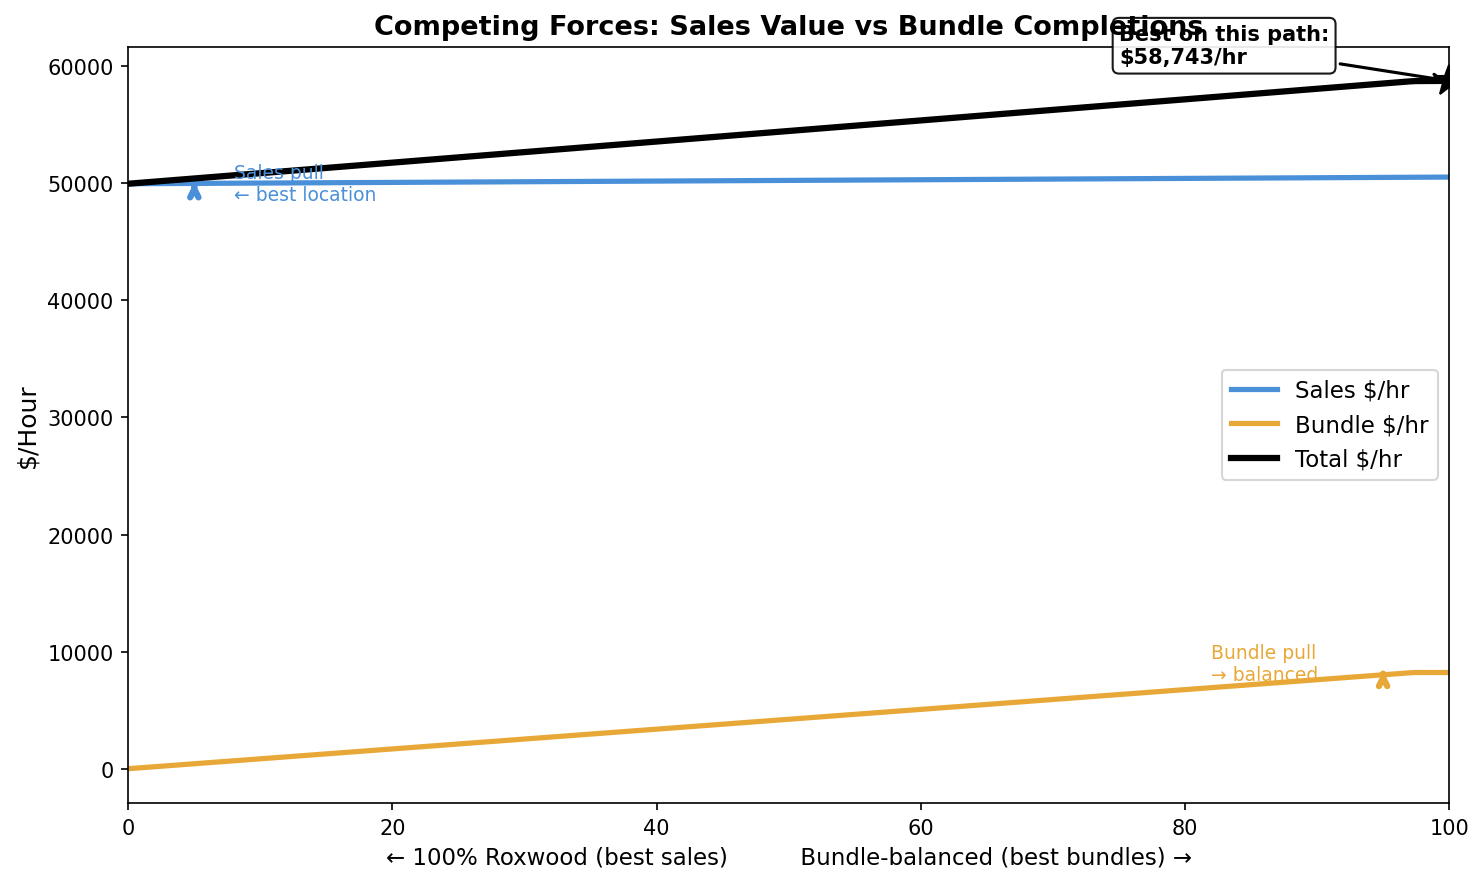
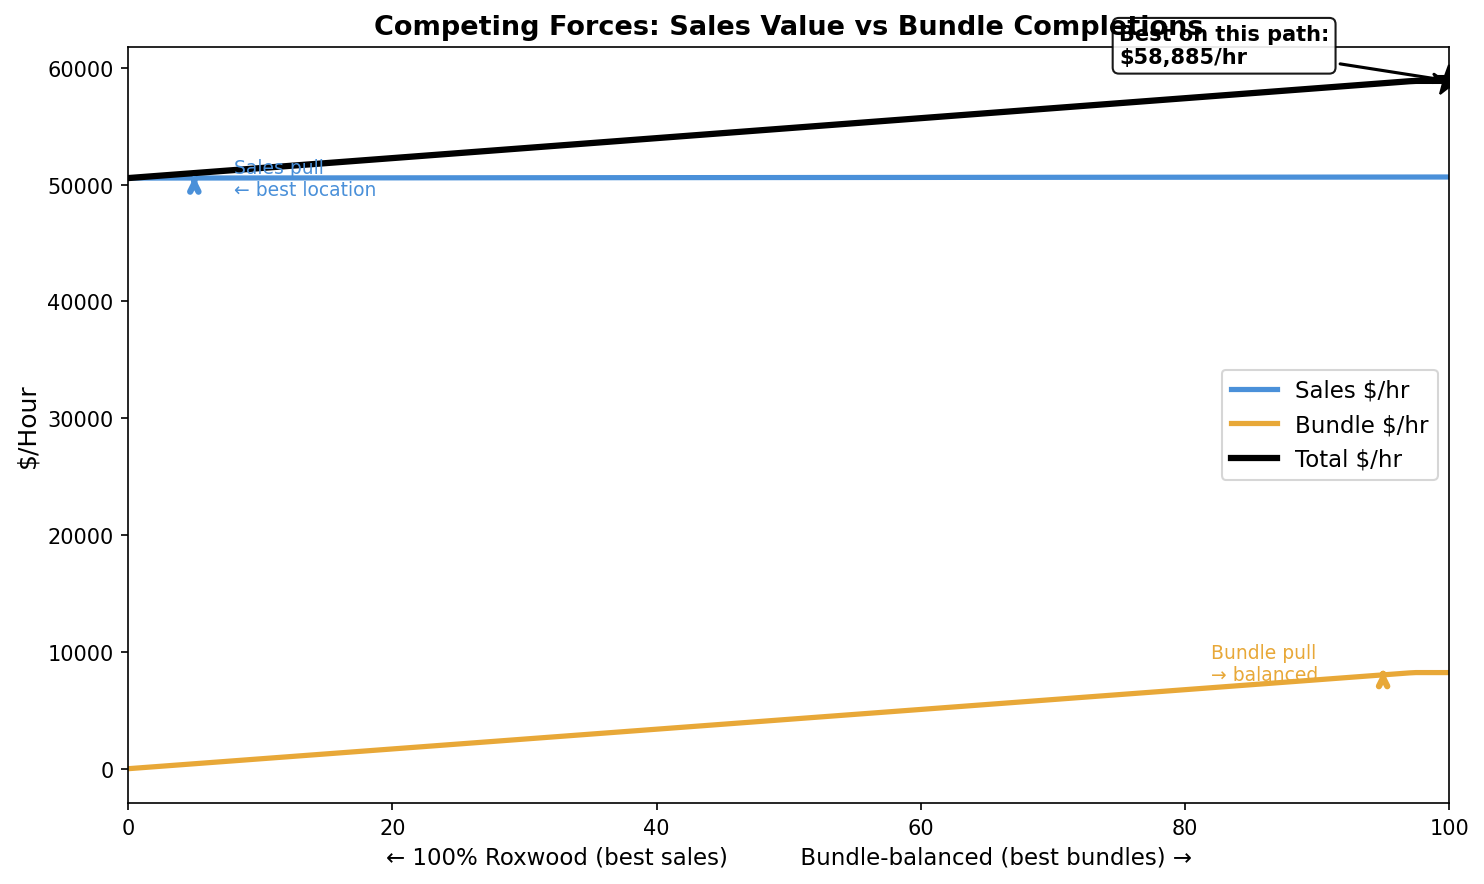
update

diff --git a/sales/constants.py b/sales/constants.py
@@ -150,7 +150,7 @@ TIER_PRICES = {
 
 # Manual notes for special fish sightings (weather, etc.)
 SPECIAL_FISH_NOTES: dict[str, str] = {
-    "3 Eyed Fish": "heavy storm",
+    "3 Eyed Fish": "heavy storm in alamo, nothing special in roxwood tho",
 }
 
 # Time per fish (seconds) – bite wait varies by location

diff --git a/sales/comparison.md b/sales/comparison.md
@@ -10,7 +10,7 @@ Bite wait by location: Alamo Sea 90s, Dam 90s, Roxwood 100s. Reel-in by location
 |-----------|------------:|----------------:|-------------:|-------------------------------------------------------|-----------------:|-------------------:|---------------------:|---------------:|
 | Alamo Sea |         420 |          $1,472 |       $1,404 | Gold Multizone #1, Alamo Starter, Low Level Multizone |             $655 |             $2,127 |           **$2,059** |        $70,606 |
 | Dam       |         335 |          $1,664 |       $1,664 | Gold Multizone #1, Low Level Multizone                |             $369 |             $2,033 |           **$2,033** |        $63,644 |
-| Roxwood   |         172 |          $1,804 |       $1,871 | Gold Multizone #1, Low Level Multizone                |             $205 |             $2,009 |           **$2,077** |        $57,504 |
+| Roxwood   |         256 |          $1,826 |       $1,849 | Gold Multizone #1, Low Level Multizone                |             $257 |             $2,083 |           **$2,107** |        $58,335 |
 
 ## Optimal Allocation
 
@@ -18,13 +18,13 @@ Optimal time split across locations to maximize total $/hour (considering both s
 
 | Location     | Time % (obs) | $/Fish (obs) | $/Hour (obs) | Time % (model) | $/Fish (model) | $/Hour (model) |
 |--------------|-------------:|-------------:|-------------:|---------------:|---------------:|---------------:|
-| Alamo Sea    |          63% |       $1,472 |      $57,829 |            61% |         $1,404 |        $55,497 |
-| Dam          |          14% |       $1,664 |      $52,096 |            15% |         $1,664 |        $52,096 |
-| Roxwood      |          23% |       $1,804 |      $49,959 |            24% |         $1,871 |        $51,816 |
-| **Combined** |         100% |              |  **$59,119** |           100% |                |    **$58,133** |
+| Alamo Sea    |          58% |       $1,472 |      $57,829 |            58% |         $1,404 |        $55,497 |
+| Dam          |          20% |       $1,664 |      $52,096 |            20% |         $1,664 |        $52,096 |
+| Roxwood      |          22% |       $1,826 |      $50,566 |            22% |         $1,849 |        $51,213 |
+| **Combined** |         100% |              |  **$59,773** |           100% |                |    **$58,564** |
 
-**Observed:** splitting yields **$59,119**/hour vs **$57,829**/hour best solo (+$1,291/hour, +2.2%).
-**Model:** splitting yields **$58,133**/hour vs **$55,497**/hour best solo (+$2,636/hour, +4.8%).
+**Observed:** splitting yields **$59,773**/hour vs **$57,829**/hour best solo (+$1,945/hour, +3.4%).
+**Model:** splitting yields **$58,564**/hour vs **$55,497**/hour best solo (+$3,067/hour, +5.5%).
 
 ## Bundle Details
 
@@ -38,8 +38,8 @@ Optimal time split across locations to maximize total $/hour (considering both s
 
 | Bundle              | Fish                             |   Bonus | Avg Fish to Complete | Avg Time | Bonus/Fish | Catch Rates                                                                                                 |
 |---------------------|----------------------------------|--------:|---------------------:|---------:|-----------:|-------------------------------------------------------------------------------------------------------------|
-| Gold Multizone #1   | Bluefin Tuna, Musky, Dolphinfish | $12,750 |                  203 |  376 min |        $63 | Bluefin Tuna @ Alamo Sea: 3/420 (0.7%) \| Musky @ Dam: 17/335 (5.1%) \| Dolphinfish @ Roxwood: 4/172 (2.3%) |
-| Low Level Multizone | Scollop, Carp, Grenadier         | $11,000 |                   67 |  136 min |       $164 | Scollop @ Alamo Sea: 47/420 (11.2%) \| Carp @ Dam: 14/335 (4.2%) \| Grenadier @ Roxwood: 5/172 (2.9%)       |
+| Gold Multizone #1   | Bluefin Tuna, Musky, Dolphinfish | $12,750 |                  202 |  375 min |        $63 | Bluefin Tuna @ Alamo Sea: 3/420 (0.7%) \| Musky @ Dam: 17/335 (5.1%) \| Dolphinfish @ Roxwood: 6/256 (2.3%) |
+| Low Level Multizone | Scollop, Carp, Grenadier         | $11,000 |                   56 |  112 min |       $196 | Scollop @ Alamo Sea: 47/420 (11.2%) \| Carp @ Dam: 14/335 (4.2%) \| Grenadier @ Roxwood: 11/256 (4.3%)      |
 
 ## Drop Rate Analysis
 
@@ -49,10 +49,10 @@ Tier drop rates are consistent across locations, suggesting a fixed game mechani
 
 | Tier        | Alamo Sea |   Dam | Roxwood | Average |
 |-------------|----------:|------:|--------:|--------:|
-| ★★★★ purple |      0.2% |  0.0% |    0.0% |    0.1% |
-| ★★★         |      6.4% | 10.1% |    8.7% |    8.4% |
-| ★★          |     26.4% | 28.1% |   32.6% |   29.0% |
-| ★           |     65.5% | 61.8% |   58.7% |   62.0% |
+| ★★★★ purple |      0.2% |  0.0% |    0.4% |    0.2% |
+| ★★★         |      6.4% | 10.1% |    9.0% |    8.5% |
+| ★★          |     26.4% | 28.1% |   30.9% |   28.4% |
+| ★           |     65.5% | 61.8% |   59.4% |   62.2% |
 
 ### Within-Tier Weights
 
@@ -140,42 +140,42 @@ Model fit (25%/20%/20%/15%/10%/10%): χ² = 1.19, p = 0.946 — excellent
 Weight fit: χ² = 2.80, df = 7, p = 0.903 — excellent
 Model fit (20%/15%/15%/15%/10%/10%/10%/5%): χ² = 4.88, p = 0.674 — excellent
 
-#### Roxwood — ★★★ (3 fish, 15 observed)
+#### Roxwood — ★★★ (3 fish, 23 observed)
 
 | Fish          | Count | Observed % | Weight | Weight % | Model % | Model % (norm) | Residual |
 |---------------|------:|-----------:|-------:|---------:|--------:|---------------:|---------:|
-| King Mackerel |     6 |      40.0% |      1 |    33.3% |     55% |          55.0% |     -2.2 |
-| Grenadier     |     5 |      33.3% |      1 |    33.3% |     30% |          30.0% |     +0.5 |
-| Dolphinfish   |     4 |      26.7% |      1 |    33.3% |     15% |          15.0% |     +1.8 |
+| Grenadier     |    11 |      47.8% |      9 |    47.4% |     55% |          55.0% |     -1.7 |
+| King Mackerel |     6 |      26.1% |      5 |    26.3% |     30% |          30.0% |     -0.9 |
+| Dolphinfish   |     6 |      26.1% |      5 |    26.3% |     15% |          15.0% |     +2.5 |
 
-Weight fit: χ² = 0.40, df = 2, p = 0.819 — excellent
-Model fit (55%/30%/15%): χ² = 2.03, p = 0.362 — good
+Weight fit: χ² = 0.00, df = 2, p = 0.999 — excellent
+Model fit (55%/30%/15%): χ² = 2.22, p = 0.330 — good
 
-#### Roxwood — ★★ (6 fish, 56 observed)
+#### Roxwood — ★★ (6 fish, 79 observed)
 
 | Fish         | Count | Observed % | Weight | Weight % | Model % | Model % (norm) | Residual |
 |--------------|------:|-----------:|-------:|---------:|--------:|---------------:|---------:|
-| Snapper      |    15 |      26.8% |      9 |    23.1% |     25% |          25.0% |     +1.0 |
-| Silver Perch |    12 |      21.4% |      9 |    23.1% |     20% |          20.0% |     +0.8 |
-| Amberjack    |    12 |      21.4% |      9 |    23.1% |     20% |          20.0% |     +0.8 |
-| Gummy Shark  |     7 |      12.5% |      4 |    10.3% |     15% |          15.0% |     -1.4 |
-| Brown Trout  |     7 |      12.5% |      4 |    10.3% |     10% |          10.0% |     +1.4 |
-| Red Snapper  |     3 |       5.4% |      4 |    10.3% |     10% |          10.0% |     -2.6 |
+| Snapper      |    19 |      24.1% |      7 |    21.2% |     25% |          25.0% |     -0.8 |
+| Silver Perch |    16 |      20.3% |      7 |    21.2% |     20% |          20.0% |     +0.2 |
+| Amberjack    |    16 |      20.3% |      7 |    21.2% |     20% |          20.0% |     +0.2 |
+| Gummy Shark  |    12 |      15.2% |      4 |    12.1% |     15% |          15.0% |     +0.2 |
+| Brown Trout  |    10 |      12.7% |      4 |    12.1% |     10% |          10.0% |     +2.1 |
+| Red Snapper  |     6 |       7.6% |      4 |    12.1% |     10% |          10.0% |     -1.9 |
 
-Weight fit: χ² = 2.33, df = 5, p = 0.802 — excellent
-Model fit (25%/20%/20%/15%/10%/10%): χ² = 1.98, p = 0.852 — excellent
+Weight fit: χ² = 2.34, df = 5, p = 0.801 — excellent
+Model fit (25%/20%/20%/15%/10%/10%): χ² = 1.05, p = 0.958 — excellent
 
-#### Roxwood — ★ (7 fish, 101 observed)
+#### Roxwood — ★ (7 fish, 152 observed)
 
 | Fish               | Count | Observed % | Weight | Weight % | Model % | Model % (norm) | Residual |
 |--------------------|------:|-----------:|-------:|---------:|--------:|---------------:|---------:|
-| Grouper            |    35 |      34.7% |      9 |    33.3% |     20% |          21.1% |    +13.7 |
-| Dungeness Crab     |    17 |      16.8% |      4 |    14.8% |     15% |          15.8% |     +1.1 |
-| Sandy Sprat        |    15 |      14.9% |      4 |    14.8% |     15% |          15.8% |     -0.9 |
-| Ocean Perch        |    13 |      12.9% |      4 |    14.8% |     15% |          15.8% |     -2.9 |
-| Australian Herring |     9 |       8.9% |      2 |     7.4% |     10% |          10.5% |     -1.6 |
-| Sand Whiting       |     6 |       5.9% |      2 |     7.4% |     10% |          10.5% |     -4.6 |
-| Ocean Jacket       |     6 |       5.9% |      2 |     7.4% |     10% |          10.5% |     -4.6 |
+| Grouper            |    45 |      29.6% |      6 |    30.0% |     20% |          21.1% |    +13.0 |
+| Dungeness Crab     |    27 |      17.8% |      3 |    15.0% |     15% |          15.8% |     +3.0 |
+| Ocean Perch        |    25 |      16.4% |      3 |    15.0% |     15% |          15.8% |     +1.0 |
+| Sandy Sprat        |    23 |      15.1% |      3 |    15.0% |     15% |          15.8% |     -1.0 |
+| Australian Herring |    17 |      11.2% |      3 |    15.0% |     10% |          10.5% |     +1.0 |
+| Ocean Jacket       |     9 |       5.9% |      1 |     5.0% |     10% |          10.5% |     -7.0 |
+| Sand Whiting       |     6 |       3.9% |      1 |     5.0% |     10% |          10.5% |    -10.0 |
 
-Weight fit: χ² = 1.48, df = 6, p = 0.961 — excellent
-Model fit (20%/15%/15%/15%/10%/10%/10%/5%): χ² = 13.83, p = 0.032 — poor
+Weight fit: χ² = 3.07, df = 6, p = 0.801 — excellent
+Model fit (20%/15%/15%/15%/10%/10%/10%/5%): χ² = 15.11, p = 0.019 — poor

diff --git a/sales/roxwood.md b/sales/roxwood.md
@@ -2,22 +2,24 @@
 
 1 batches sold
 
-| Fish               |   Count |        % | Stars | Bundles             |
-|--------------------|--------:|---------:|-------|---------------------|
-| King Mackerel      |       6 |     3.5% | ★★★   |                     |
-| Grenadier          |       5 |     2.9% | ★★★   | Low Level Multizone |
-| Dolphinfish        |       4 |     2.3% | ★★★   | Gold Multizone #1   |
-| Snapper            |      15 |     8.7% | ★★    |                     |
-| Silver Perch       |      12 |     7.0% | ★★    |                     |
-| Amberjack          |      12 |     7.0% | ★★    |                     |
-| Gummy Shark        |       7 |     4.1% | ★★    |                     |
-| Brown Trout        |       7 |     4.1% | ★★    |                     |
-| Red Snapper        |       3 |     1.7% | ★★    | Silver Multizone #2 |
-| Grouper            |      35 |    20.3% | ★     |                     |
-| Dungeness Crab     |      17 |     9.9% | ★     |                     |
-| Sandy Sprat        |      15 |     8.7% | ★     |                     |
-| Ocean Perch        |      13 |     7.6% | ★     | Bronze Multizone #1 |
-| Australian Herring |       9 |     5.2% | ★     |                     |
-| Sand Whiting       |       6 |     3.5% | ★     |                     |
-| Ocean Jacket       |       6 |     3.5% | ★     |                     |
-| **Total**          | **172** | **100%** |       |                     |
+| Fish               |   Count |        % | Stars       | Bundles             |
+|--------------------|--------:|---------:|-------------|---------------------|
+| 3 Eyed Fish        |       1 |     0.4% | ★★★★ purple |                     |
+| Grenadier          |      11 |     4.3% | ★★★         | Low Level Multizone |
+| King Mackerel      |       6 |     2.3% | ★★★         |                     |
+| Dolphinfish        |       6 |     2.3% | ★★★         | Gold Multizone #1   |
+| Snapper            |      19 |     7.4% | ★★          |                     |
+| Silver Perch       |      16 |     6.2% | ★★          |                     |
+| Amberjack          |      16 |     6.2% | ★★          |                     |
+| Gummy Shark        |      12 |     4.7% | ★★          |                     |
+| Brown Trout        |      10 |     3.9% | ★★          |                     |
+| Red Snapper        |       6 |     2.3% | ★★          | Silver Multizone #2 |
+| Grouper            |      45 |    17.6% | ★           |                     |
+| Dungeness Crab     |      27 |    10.5% | ★           |                     |
+| Ocean Perch        |      25 |     9.8% | ★           | Bronze Multizone #1 |
+| Sandy Sprat        |      23 |     9.0% | ★           |                     |
+| Australian Herring |      17 |     6.6% | ★           |                     |
+| Ocean Jacket       |       9 |     3.5% | ★           |                     |
+| Sand Whiting       |       6 |     2.3% | ★           |                     |
+| Esky               |       1 |     0.4% | ?           |                     |
+| **Total**          | **256** | **100%** |             |                     |

diff --git a/sales/prices.md b/sales/prices.md
@@ -18,12 +18,12 @@ Green stars (★ green) = Humane Labs tier. Special fish have fixed prices.
 Special fish (★★★★ purple) are zone-independent — they can appear at any fishing location.
 Heavy storm weather may increase chances.
 
-| Fish                 |   Price | Stars       | Sightings               |
-|----------------------|--------:|-------------|-------------------------|
-| Chadfin              |  $8,150 | -           |                         |
-| 3 Eyed Fish          | $10,000 | ★★★★ purple | Alamo Sea (heavy storm) |
-| Pufferfish w/ Carrot | $10,000 | ★★★★ purple |                         |
-| Baby Pufferfish      | $10,000 | ★★★★ purple |                         |
+| Fish                 |   Price | Stars       | Sightings                                                                                                                        |
+|----------------------|--------:|-------------|----------------------------------------------------------------------------------------------------------------------------------|
+| Chadfin              |  $8,150 | -           |                                                                                                                                  |
+| 3 Eyed Fish          | $10,000 | ★★★★ purple | Alamo Sea (heavy storm in alamo, nothing special in roxwood tho), Roxwood (heavy storm in alamo, nothing special in roxwood tho) |
+| Pufferfish w/ Carrot | $10,000 | ★★★★ purple |                                                                                                                                  |
+| Baby Pufferfish      | $10,000 | ★★★★ purple |                                                                                                                                  |
 
 ## All Fish
 

diff --git a/sales/roxwood-log.md b/sales/roxwood-log.md
@@ -6,12 +6,26 @@ Snapper	15
 Gummy Shark	7
 Sand Whiting	6
 Ocean Jacket	6
-Grenadier	5
 Ocean Perch	13
 Dungeness Crab	17
 Silver Perch	12
 Amberjack	12
 Brown Trout	7
 Red Snapper	3
-Dolphinfish	4
 --sold (except Grenadier and Dolphinfish)
+Grenadier  11
+Dolphinfish  6
+Snapper  4
+Amberjack  4
+Dungeness Crab  10
+Grouper  10
+Red Snapper  3
+Ocean Perch  12
+Gummy Shark  5
+Sandy Sprat  8
+Esky  1
+3 Eyed Fish  1
+Silver Perch  4
+Australian Herring  8
+Ocean Jacket  3
+Brown Trout  3
